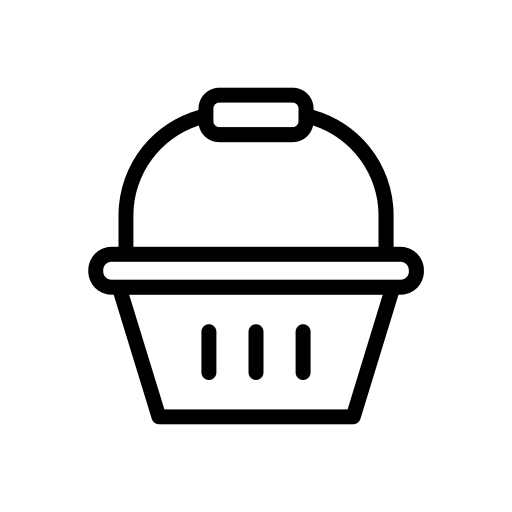
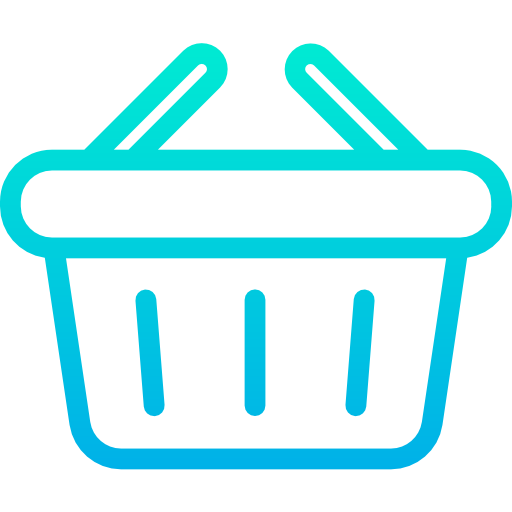
Upload store change

diff --git a/components/store_css.js b/components/store_css.js
@@ -2,6 +2,8 @@ const Store_CSS = () => {
   return (
     <style global jsx>{`
       div.all{
+        display: flex;
+        flex-wrap: wrap;
         border-top: 3px solid black;
         margin-left: 10%;
         margin-right: 10%;
@@ -19,6 +21,11 @@ const Store_CSS = () => {
       div.gallery img {
         width: 100%;
         height: 160px;
+      }
+      .gallery button{
+        background-color:black;
+        color: white;
+        border-radius: 5px;
       }
       div.desc {
         padding: 8px 15px;
@@ -41,15 +48,15 @@ const Store_CSS = () => {
         font-size: 15pt;
       }
       div.fixed {
-        position: absolute;
-        top: 460px;
-        right: 210px;
-        width: 150px;
-        height: 150px;
+        display: inline-block;
+        align-self: flex-end;
+        margin-left: auto;
+        width: 100px;
+        height: 100px;
       }
       .fixed img{
-        width: 150px;
-        height: 150px;
+        width: 100px;
+        height: 100px;
       }
     `}</style>
   )

diff --git a/pages/store.js b/pages/store.js
@@ -64,6 +64,10 @@ const Store = () => {
           <button>장바구니</button>
           <span class="price">11000원</span>
         </div>
+
+        <div class="fixed">
+        	<img src="/store/basket.png" />
+        </div>
       </div>
   )
 
@@ -103,6 +107,9 @@ const Store = () => {
             <button>장바구니</button>
             <span class="price">18000원</span>
           </div>
+          <div class="fixed">
+          	<img src="/store/basket.png" />
+          </div>
       </div>
   )
 
@@ -110,9 +117,6 @@ const Store = () => {
     <div>
       <Store_CSS />
       <Header />
-      <div class="fixed">
-      	<img src="/store/basket.png" />
-      </div>
       <div class="category">
         <h2>스토어</h2>
         <a onClick={() => setGoods(true)}>팝콘/음료</a>
